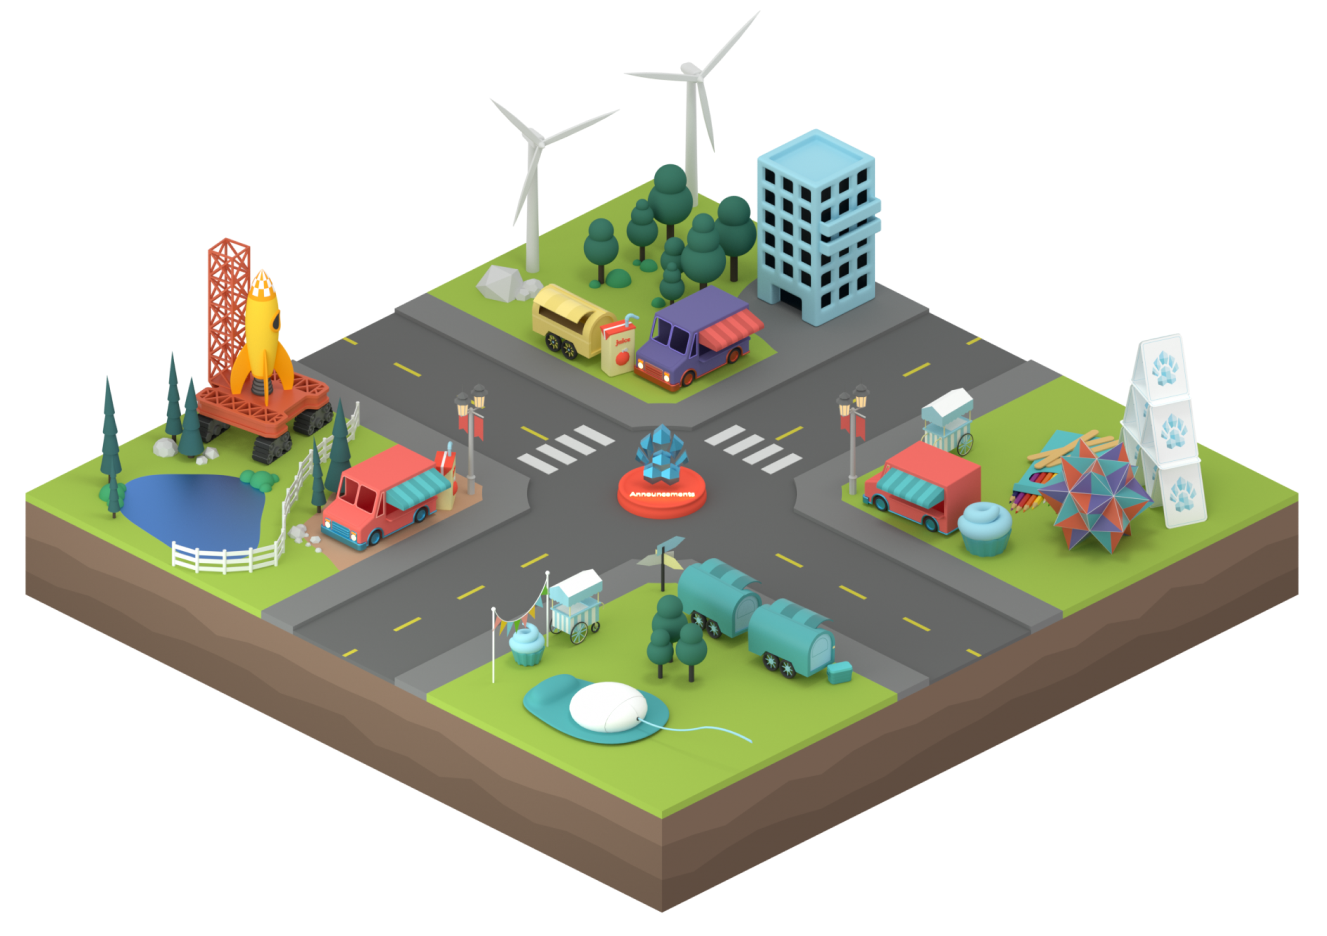
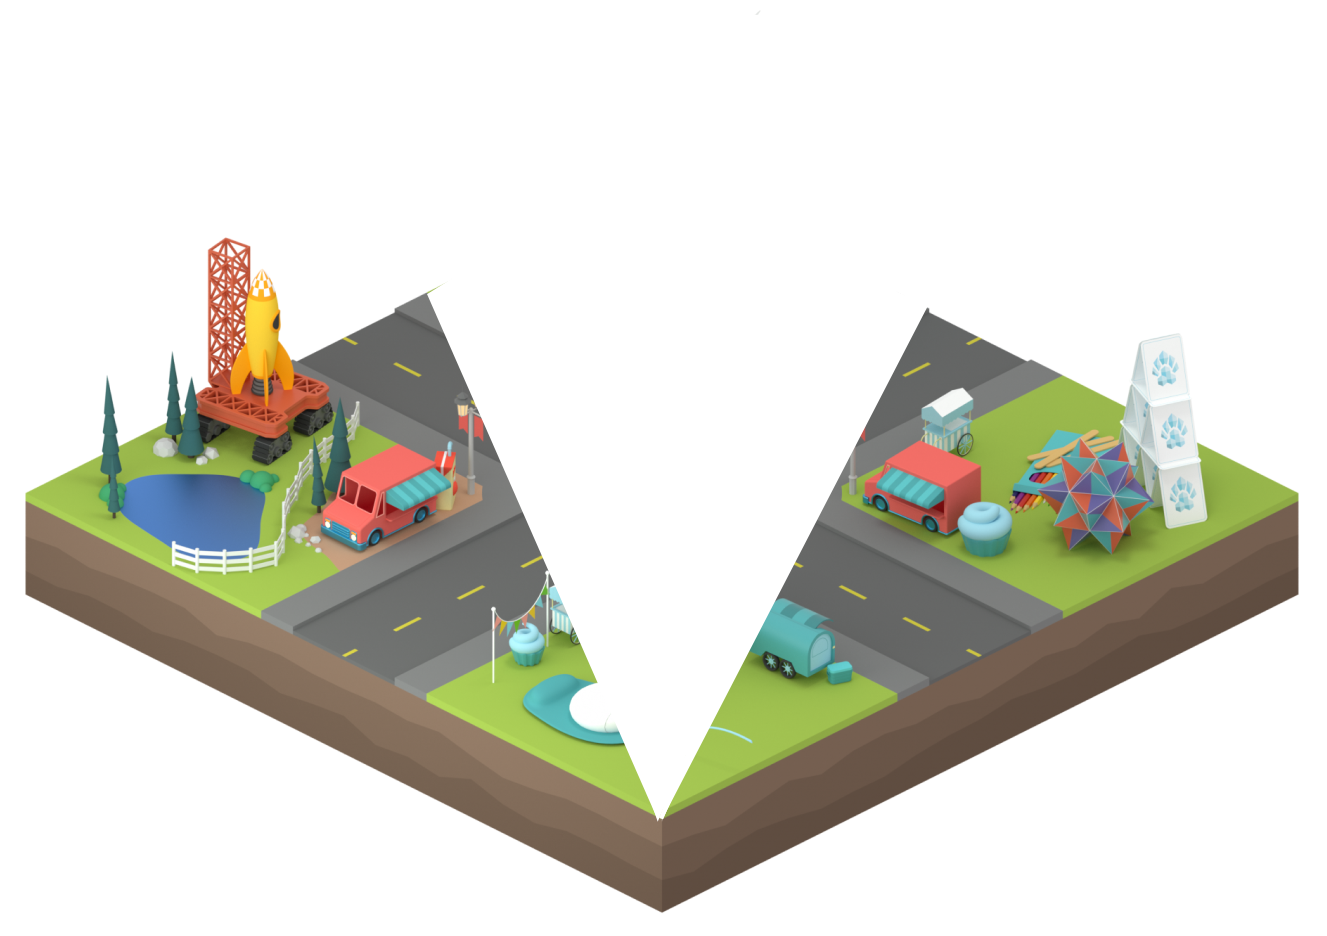
animation kind of working

Changed region(s): [[0.309, 0.031, 0.7106, 0.8675]]

diff --git a/src/app/page.tsx b/src/app/page.tsx
@@ -3,7 +3,7 @@ import Carousel from "../components/Carousel";
 import { Parallax, ParallaxLayer } from "@react-spring/parallax";
 import { useSpring, animated } from "@react-spring/web";
 import Image from "next/image";
-import React, { useEffect, useState } from "react";
+import React, { useEffect, useState, useRef } from "react";
 
 export default function Home() {
   const carouselItems = [
@@ -20,150 +20,187 @@ export default function Home() {
   ];
 
   const [offset, setOffset] = useState(0);
+  const speed = 0.1;
 
   const horizontalSpring = useSpring({
+    offset: offset,
     from: { offset: 0 },
-    to: { offset: 1 },
-    loop: true,
-    config: { duration: 3000 },
-    onRest: () => setOffset(0),
+    to: async (next) => {
+      while (true) {
+        await next({ offset: 50 });
+        // await next({ offset: 0 });
+      }
+    },
+    // onRest: () => setOffset(0),
+    config: { duration: 120000 },
   });
-
   useEffect(() => {
     const intervalId = setInterval(() => {
-      setOffset((prevOffset) => (prevOffset === 1 ? 0 : prevOffset + 0.1));
-    }, 3000);
+      setOffset((prevOffset) => prevOffset + 0.001);
+    }, 5000);
 
     return () => clearInterval(intervalId);
-  }, []);
+  }, [horizontalSpring]);
 
   return (
-    <main className="flex min-h-screen justify-between p-24">
+    <main className="flex min-h-screen justify-between font-mono p-24">
       <Parallax pages={2} style={{ top: "0", left: "0" }}>
-        <div style={{ padding: "100px", paddingTop: "200px"}}>
-        <animated.div
-          style={{
-            position: "fixed",
-            width: "100%",
-            height: "100%",
-            willChange: "transform",
-            transform: horizontalSpring.offset.to(
-              (o) => `translateX(${o * 30}%) rotate(45deg)`
-            ),
-          }}
-        >
-          <div className="flex flex-col lg:flex-row">
-            <ParallaxLayer offset={offset} speed={0.1}>
-              <Image
-                src="/virtual_space.png"
-                width="500"
-                height="500"
-                alt="test1"
-              />
-            </ParallaxLayer>
-            <ParallaxLayer offset={offset + 0.2} speed={0.5}>
-              <Image
-                src="/virtual_space.png"
-                width="500"
-                height="500"
-                alt="test2"
-              />
-            </ParallaxLayer>
-          </div>
-        </animated.div>
+        <div style={{ padding: "100px", paddingTop: "200px" }}>
+          <animated.div
+            style={{
+              position: "fixed",
+              width: "100%",
+              height: "100%",
+              willChange: "transform",
+              transform: horizontalSpring.offset.to(
+                (o) =>
+                  `translateY(-${o * 10}%) translateX(-${
+                    o * 10
+                  }%) rotate(25deg)`
+              ),
+            }}
+          >
+            <div className="flex flex-col lg:flex-row">
+              <ParallaxLayer offset={offset} speed={0.1}>
+                <div style={{ marginTop: "-1000px", marginLeft: "-1000px" }}>
+                  <div className="flex-row">
+                    {Array.from({ length: 10 }, (_, index) => (
+                      <div key={index} className="flex">
+                        {Array.from({ length: 20 }, (_, index) => (
+                          <Image
+                            key={index}
+                            src="/virtual_space.png"
+                            width="2000"
+                            height="2000"
+                            alt={`test${index + 1}`}
+                          />
+                        ))}
+                      </div>
+                    ))}
+                  </div>
+                </div>
+              </ParallaxLayer>
+              {/* <ParallaxLayer offset={offset + 0.2} speed={0.5}>
+                <div className="flex">
+                  <Image
+                    src="/virtual_space.png"
+                    width="3000"
+                    height="3000"
+                    alt="test1"
+                  />
+                  <Image
+                    src="/virtual_space.png"
+                    width="3000"
+                    height="3000"
+                    alt="test1"
+                  />
+                  <Image
+                    src="/virtual_space.png"
+                    width="3000"
+                    height="3000"
+                    alt="test1"
+                  />
+                </div>
+              </ParallaxLayer> */}
+            </div>
+          </animated.div>
 
-        <div className="z-10 max-w-5xl w-1/2 items-center justify-between font-mono text-sm lg:flex-col">
-          <h1 className="text-6xl font-bold">PARAGON POLICY FELLOWSHIP</h1>
-          <h2 className="text-l font-bold">BRINGING STUDENTS TO TECH POLICY</h2>
-          <br />
-          <br />
-          <p>
-            SHAPE THE FUTURE OF TECHNOLOGY THROUGH SEMESTER PROJECTS WITH STATE
-            AND LOCAL GOVERNMENTS.
-          </p>
-          <br />
-          <form style={{ display: "flex", alignItems: "center" }}>
-            <input
-              type="text"
-              style={{
-                backgroundColor: "transparent",
-                border: "none",
-                borderBottom: "1px solid #fff",
-                marginRight: "10px",
-                padding: "5px 0",
-                width: "60%",
-              }}
-              placeholder="Enter your college email"
-            />
-            <button
-              type="submit"
-              style={{ backgroundColor: "transparent", border: "none" }}
-            >
-              {/* placeholder */}
-              <img
-                src="/right-arrow.png"
-                alt="Submit"
-                style={{ width: "20px", height: "20px" }}
+          <div className="z-10 max-w-5xl w-1/2 items-center justify-between font-mono text-sm lg:flex-col">
+            <h1 className="text-6xl font-bold">PARAGON POLICY FELLOWSHIP</h1>
+            <h2 className="text-l font-bold">
+              BRINGING STUDENTS TO THE FOREFRONT OF TECH POLICY
+            </h2>
+            <br />
+            <br />
+            <p>
+              SHAPE THE FUTURE OF TECHNOLOGY THROUGH SEMESTER PROJECTS WITH
+              STATE AND LOCAL GOVERNMENTS.
+            </p>
+            <br />
+            <form style={{ display: "flex", alignItems: "center" }}>
+              <input
+                type="text"
+                style={{
+                  backgroundColor: "transparent",
+                  border: "none",
+                  borderBottom: "1px solid #fff",
+                  marginRight: "10px",
+                  padding: "5px 0",
+                  width: "60%",
+                }}
+                placeholder="Enter your college email"
               />
-            </button>
-          </form>
-        </div>
-        <br />
-        <br />
-        <div style={{ paddingTop: "200px", paddingBottom: "100px" }}>
-          <h2 className="text-left text-5xl font-medium">ABOUT</h2>
-          <div className="pt-3 pb-10">
-            The Paragon Fellowship aims to connect students with opportunities
-            in tech policy research. Fellows will work on term-time tech policy
-            projects where they dedicate about 5 hours/week during the semester
-            to produce a policy brief on the applications of digital technology
-            in state and local governments. Eventually, we hope to bring these
-            fellows together in an annual summit to share ideas and create a
-            more robust, nationwide community.
+              <button
+                type="submit"
+                style={{ backgroundColor: "transparent", border: "none" }}
+              >
+                {/* placeholder */}
+                <img
+                  src="/right-arrow.png"
+                  alt="Submit"
+                  style={{ width: "20px", height: "20px" }}
+                />
+              </button>
+            </form>
           </div>
-          <hr className="pt-10" />
-          <h2 className="text-left text-2xl font-medium">
-            WHAT DOES A PROJECT LOOK LIKE?
-          </h2>
-          <div className="pb-10">
-            Environmental permits are known to be a time-consuming and
-            complicated process. AI adoption in this process could significantly
-            increase the productivity of government officials. To help state and
-            local governments explore such AI use cases, Paragon fellows could
-            produce a policy brief that identifies opportunities for AI
-            integration into each phase of the permitting process, including
-            streamlining compliance checks or automating application analysis.
+          <br />
+          <br />
+          <div style={{ paddingTop: "200px", paddingBottom: "100px" }}>
+            <h2 className="text-left text-5xl font-medium">ABOUT</h2>
+            <div className="pt-3 pb-10">
+              The Paragon Fellowship aims to connect students with opportunities
+              in tech policy research. Fellows will work on term-time tech
+              policy projects where they dedicate about 5 hours/week during the
+              semester to produce a policy brief on the applications of digital
+              technology in state and local governments. Eventually, we hope to
+              bring these fellows together in an annual summit to share ideas
+              and create a more robust, nationwide community.
+            </div>
+            <hr className="pt-10" />
+            <h2 className="text-left text-2xl font-medium">
+              WHAT DOES A PROJECT LOOK LIKE?
+            </h2>
+            <div className="pb-10">
+              Environmental permits are known to be a time-consuming and
+              complicated process. AI adoption in this process could
+              significantly increase the productivity of government officials.
+              To help state and local governments explore such AI use cases,
+              Paragon fellows could produce a policy brief that identifies
+              opportunities for AI integration into each phase of the permitting
+              process, including streamlining compliance checks or automating
+              application analysis.
+            </div>
+            <h2 className="text-left text-2xl font-medium">
+              WHAT IS THE IMPACT?
+            </h2>
+            <div className="pb-10">
+              Our success will cultivate the next generation of science and tech
+              policy leaders. By connecting students with state and local
+              governments, we empower them to chart a career path in tech policy
+              and address the most pressing issues in their communities and,
+              eventually, the nation.
+            </div>
+            <h2 className="text-left text-2xl font-medium">WHO ARE WE?</h2>
+            <div className="pb-10">
+              Started by two former White House OSTP interns, we saw a gap
+              between students interested in science and tech policy issues and
+              local governments with an increasing need to build tech capacity.
+              Our objective is to make science and tech policy research more
+              accessible to students of any background and to create a
+              supportive community among those interested in exploring this
+              intersection.
+              <br></br>
+              <br></br>
+              The organizing team includes students from:
+            </div>
+            <div className="container mx-auto">
+              <Carousel items={carouselItems} />
+            </div>
+            <div className="pt-7">
+              → If you’re interested in joining our organizing team, please
+              reach out to us at paragonfellowship@gmail.com.
+            </div>
           </div>
-          <h2 className="text-left text-2xl font-medium">
-            WHAT IS THE IMPACT?
-          </h2>
-          <div className="pb-10">
-            Our success will cultivate the next generation of science and tech
-            policy leaders. By connecting students with state and local
-            governments, we empower them to chart a career path in tech policy
-            and address the most pressing issues in their communities and,
-            eventually, the nation.
-          </div>
-          <h2 className="text-left text-2xl font-medium">WHO ARE WE?</h2>
-          <div className="pb-10">
-            Started by two former White House OSTP interns, we saw a gap between
-            students interested in science and tech policy issues and local
-            governments with an increasing need to build tech capacity. Our
-            objective is to make science and tech policy research more
-            accessible to students of any background and to create a supportive
-            community among those interested in exploring this intersection.
-            <br></br>
-            <br></br>
-            The organizing team includes students from:
-          </div>
-          <div className="container mx-auto">
-            <Carousel items={carouselItems} />
-          </div>
-          <div className="pt-7">
-            → If you’re interested in joining our organizing team, please reach
-            out to us at paragonfellowship@gmail.com.
-          </div>
-        </div>
         </div>
       </Parallax>
     </main>
